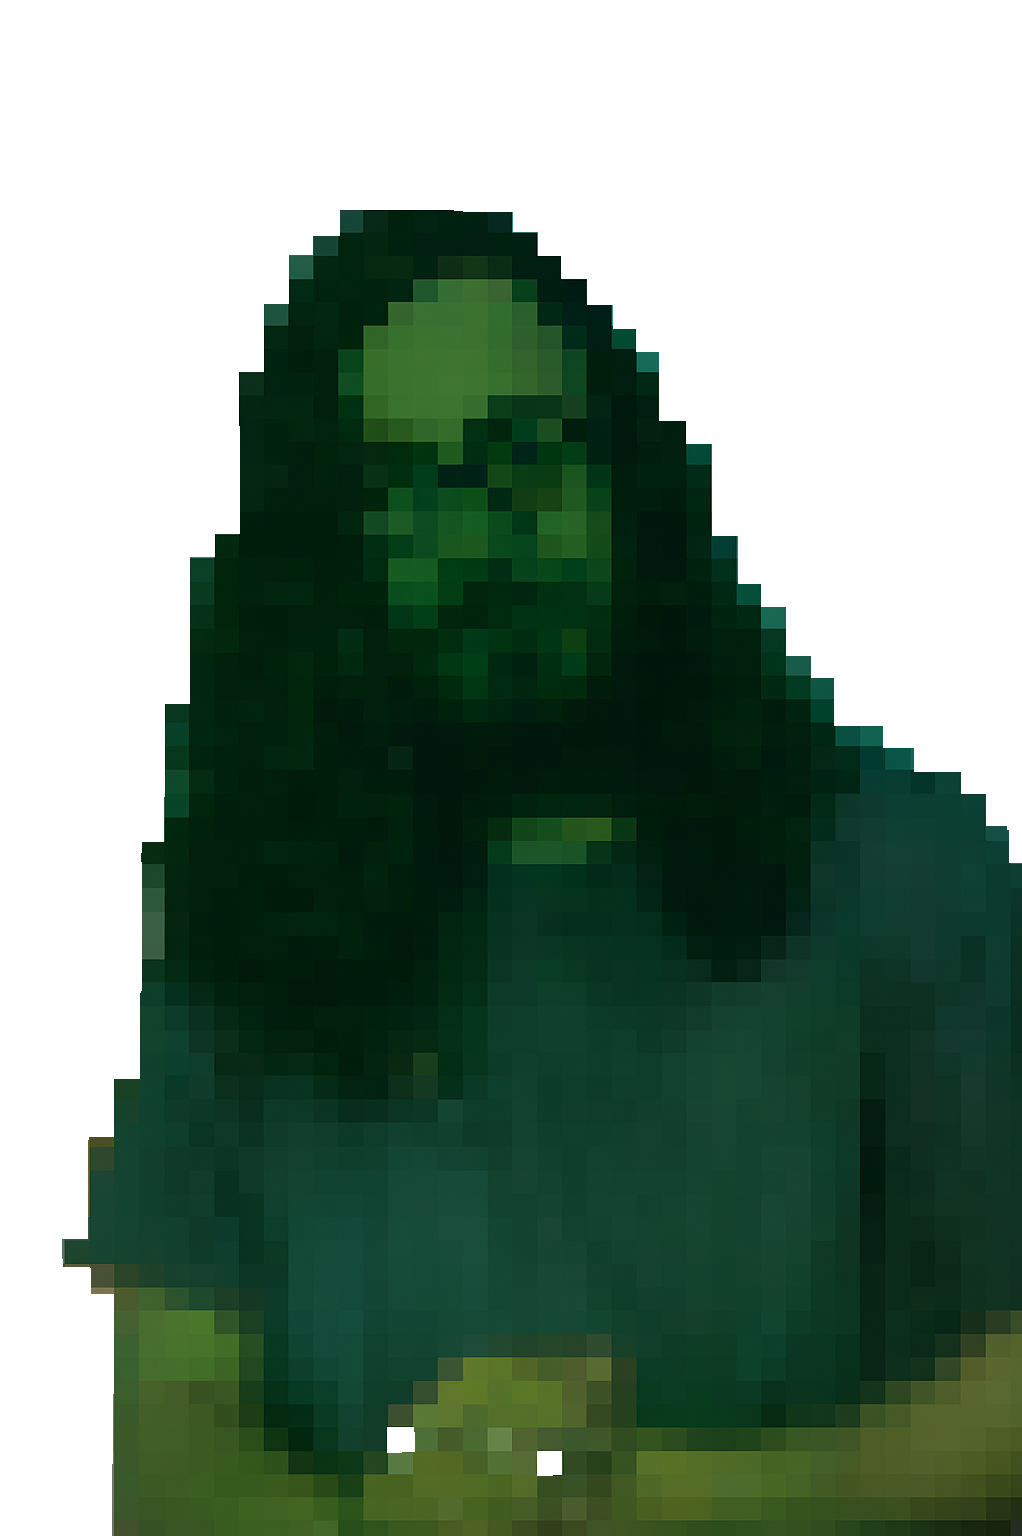
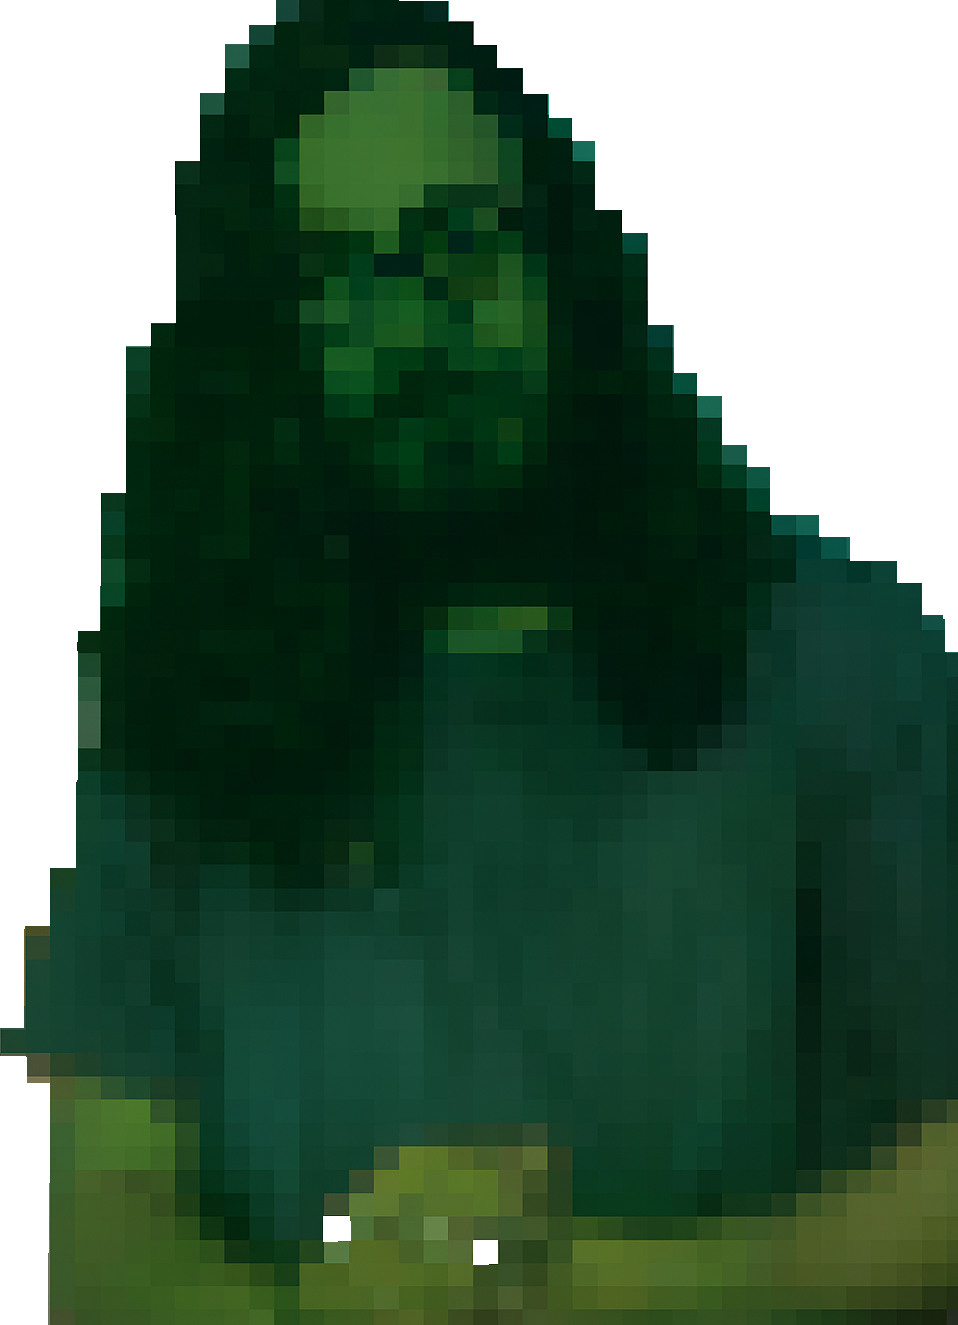
fundo terminado + blind quase pronto

Changed region(s): [[0.0, 0.0, 1.0, 1.0], [0.2422, 0.6189, 0.4238, 0.7426], [0.8173, 0.6498, 0.8476, 0.7736]]

diff --git a/style.css b/style.css
@@ -16,26 +16,24 @@ body {
 }
 
 #abelDeTras{
-  height: 100vh;
-  width: 100vw;
+  height: 180vh;
+  width: 180vw;
   background-image: url(./abelDoWhatsapp.png);
-  animation: abel 10s ease-in-out;
+  animation: abel 15s ease-in-out;
   animation-iteration-count: infinite;
   position: absolute;
   z-index: -1;
   animation-direction: alternate-reverse;
-  background-size: 10vw,10vh;
+  background-size: 3vw,3vh;
+  opacity: 40%;
 }
 
 @keyframes abel{
   0%{
-    transform:scale(1);
-    transform:rotateY(50deg);
-    
+    transform: scale(1) skewX(0deg)  rotate(0deg) ;
   }
   100%{
-    transform:scale(1.3);
-    transform:rotateY(100deg);
+    transform: scale(2)  skewX(50deg)  rotate(360deg) ;
   }
 }
 
@@ -82,9 +80,72 @@ body {
     align-items: flex-end;
     background-color: rgba(238,66,56,255);
     position: absolute;
-    top: 300px;
-    right: 20;
+    top: 58vh;
+    left: 1vw;
+    margin-left: 30px;
 }
+#caixa{
+    width: 21vw;
+    height: 20vh;
+    display: flex;
+    border-radius: 8px;
+    justify-content: center;
+    align-items: flex-end;
+    background-color: rgba(27,38,40,255);
+    position: absolute;
+    top: 46vh;
+    left: 1vw;
+    margin-left: 1vw;
+}
+
+#hands{
+    width: 10vw;
+    height: 7vh;
+    display: flex;
+    border-radius: 8px;
+    justify-content: center;
+    align-items: flex-end;
+    background-color: rgba(27,38,40,255);
+    position: absolute;
+    top: 70vh;
+    left: 4vw;
+    margin-left: 1vw;
+}
+
+#score{
+  width: 20vw;
+  height: 6vh;
+  display: flex;
+  border-radius: 8px;
+  justify-content: center;
+  align-items: center;
+  
+  background-color: rgba(27,38,40,255);
+  position: absolute;
+  top: 36vh;
+  left: 1vw;
+  margin-left: 1vw;
+  padding: 0 20px;
+}
+
+p{
+  color: white;
+  font-family: "fonteBalatro";
+  font-size: 20px;
+  margin: 0px
+  
+}
+
+#score2{
+  width: 13vw;
+  height: 4vh;
+  display: flex;
+  border-radius: 8px;
+  background-color: rgba(47,58,60,255);
+  left: 5vw;  
+  bottom: 0.5vw;
+}
+
 #abeis{
     width: 8vw;
     height: 6vh;
@@ -94,8 +155,9 @@ body {
     align-items: flex-end;
     background-color: rgba(5,144,245,255);
     position: absolute;
-    top: 300px;
-    right: 990px;
+    top: 58vh;
+    left: 10vw;
+    margin-left: 4vw;
 }
 
 #Mao{

diff --git a/index.html b/index.html
@@ -12,11 +12,25 @@
     <div id="blind">
         <button onclick="gerarMao()">criar carta</button>
     
+        <div id="score">
+            <p>round <br> score </p>
+            <div id="score2">
+
+            </div>
+        </div>
+        <div id="caixa">
+
+        </div>
         <div id="abeis">
 
         </div>
         <div id="multiAbel">
             
+        </div>
+        <div id="hands">
+            <div id="hands2">
+
+            </div>
         </div>
     </div>
     <div id="abelDeTras"></div>
